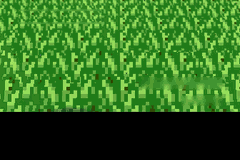
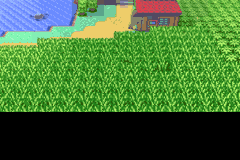
0.17.2: Route 119 tall-grass battles use the overlook backdrop (owner picked B); docs
Claude-Session: https://claude.ai/code/session_014PwRDjXGcLJqqHGfgN6Bdc

diff --git a/docs/PROJECT_EMERALD_OVERHAUL.md b/docs/PROJECT_EMERALD_OVERHAUL.md
@@ -95,6 +95,7 @@ All the screens below were recoloured to Emerald green, palette only.
 | 15 | Overworld character shadows | Pawkkie | already built into expansion 1.17 (`OW_OBJECT_VANILLA_SHADOWS FALSE`), nothing to port |
 | 16 | Vol's HGSS-style start menu, green | vol8 `start_menu_1`, HashtagMarky's expansion port | Pokédex icon asks Pokédex/DexNav; Pike/Pyramid/link rooms keep the old menu |
 | 17 | Stat Points (EV allocator), green | Bivurnum `ev-allocator` on TAH's stat editor | no battle EVs; 10 points per level to Lv51; Party → Stat Points; old saves: all EVs reset to 0 once on Continue (in 0.9.3) |
+| 36 | Route 119 tall-grass backdrop is now an overlook (3DS overworld view over the tall grass, river and Weather Institute; player/NPCs painted out, shrunk rather than zoomed), owner picked option B; seasons checked in all 4. Fix: overworld fog (Misty Terrain) and storms (Electric Terrain) no longer swap a 3D backdrop for the stock terrain picture | ours | In 0.17.2 |
 | 35 | Problem 3D backdrops: Phoebe's room, Steven's room, Mirage Tower 4F, Seafloor Cavern 2/8/9, Underwater Routes 124/126 (underwater battles now allowed), Mirage Island, Oceanic Museum 2F, Rustboro City; Abandoned Ship B1F corridor white strip filled; hidden-floor water and Magma Hideout 3F 3R reuse a sibling room's backdrop | ours (Emerald 3DS captures) | The 3DS port runs its own code and only reads our save, so captures set up real encounters (start on grass/seaweed, encounter boost) or the real story battle (flags/vars + trigger). Still stock: Mauville City (Wally) and Space Center 2F (Yes/No prompt needs the 3DS touch screen), Shoal Cave water (no encounter reached). Tested in game: Phoebe, Duncan, Steven's room, Seafloor 2, Rustboro rival. In 0.17.1 |
 | 34 | Options → New/Classic for every new graphic: Battle BG (3D backdrops), Battle Screen (BW UI), Summary (BW), Party Menu (Gen 5), Bag (SwSh), PC Boxes (SwSh), Text Box (SwSh box + name tag), Start Menu, Main Menu, Pokédex (HGSS), Ditto Faces. Saved in SaveBlock3 (`wjGfxMagic`/`wjClassicGfx`); old saves read as all New | ours | `WJ_ClassicGfx(feature)`. BW UI configs are runtime (`WJ_BwBattleUi`), Emerald window templates kept beside the BW ones. Emerald's bag (`item_menu.c`) is built again with its public functions renamed `Classic_*`; the SwSh entry points dispatch to it (Battle Pyramid keeps the SwSh bag). Party/textbox/name-tag Emerald art restored under `graphics/*/classic/`. Emulator: every Classic screen opened (field, start menu, party, summary, bag, wild battle menus/moves/run, Pokédex, PC boxes, nurse text, trainer name tag, save box, main menu → Continue), New screens re-checked. In 0.17.0 |
 | 33 | Fixes from owner play: Stat Points picture shows shiny colours; dimming moves on 3D backdrops include palette 4 (no blocky tiles while surfing); grass rustle uses the season's grass colours; 19 more trainer/wild 3D backdrops (Abandoned Ship, Aqua Hideout, Mt. Chimney, Trick House, Weather Institute, S.S. Tidal, Seashore House, Meteor Falls) | ours | backdrops tested in trainer battles (Dwayne, Martha, Colton, Thalia). In 0.17.0 |

diff --git a/docs/WALLY_JOURNEY_OWNER_REQUIREMENTS.md b/docs/WALLY_JOURNEY_OWNER_REQUIREMENTS.md
@@ -630,3 +630,4 @@ These are **wishlist items, not claims of implementation**. Adapt the design pri
 | 2026-11-04 | Main menu portrait with an outfit: owner picked "Zoomed" | The Continue panel shows the outfit's trainer picture zoomed 2x on head and shoulders, in the outfit's colours; without an outfit the Brendan/May portrait stays. Emulator: Red, Hilbert (two colour sets), Dawn, no outfit. Released in 0.16.1 |
 | 2026-11-05 | Fixes from play: shiny Stat Points picture, pixelated 3D grass, black boxes when surfing, "on/off in the options to go back to old graphics" (owner: "Make it all toggle-able"), grass rustle should follow the seasons | Shiny picture, surf black boxes and seasonal grass rustle fixed. Options now has New/Classic for each new graphic (11 rows, see overhaul row 34), all checked in the emulator. 3D tall grass: owner will pick between 3 versions at the end (current one kept for now). Also 19 more 3D backdrops (trainer-only maps). Released in 0.17.0 |
 | 2026-11-05 | "Go ahead and start the problem rooms" (owner still deciding on tall grass) | 14 problem maps now have 3D backdrops (overhaul row 35); Mauville City, Space Center 2F and Shoal Cave water keep Emerald's. Before/after PNGs sent. Released in 0.17.1 |
+| 2026-11-05 | Tall grass background: "an overlook over the tall grass", seasons must change; owner chose B | Route 119 now uses overlook B (river + Weather Institute); checked spring/summer/autumn/winter in battle. Found and fixed: foggy days turned 3D backdrops into the pink Misty Terrain picture. Released in 0.17.2 |
